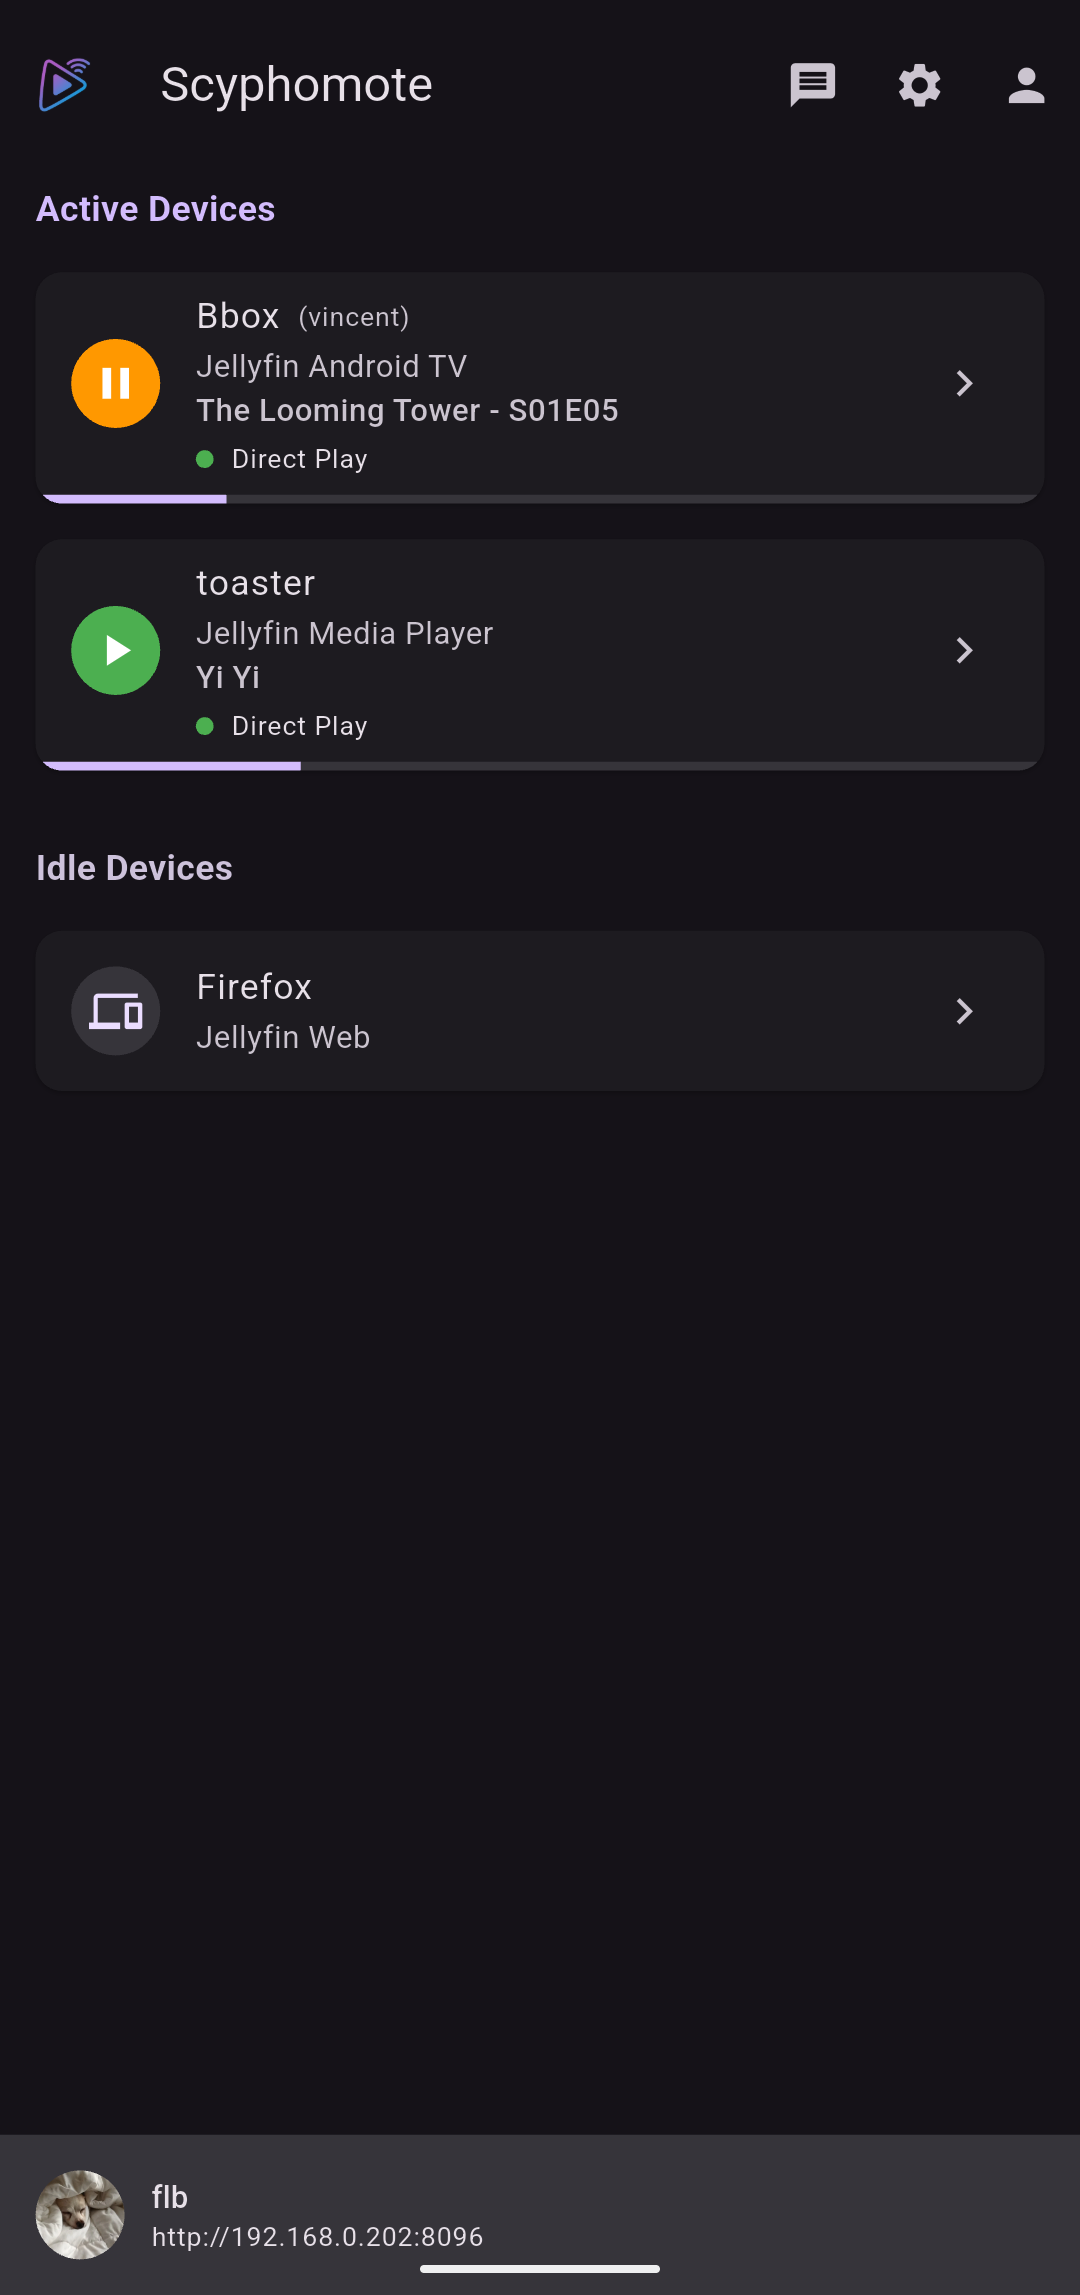
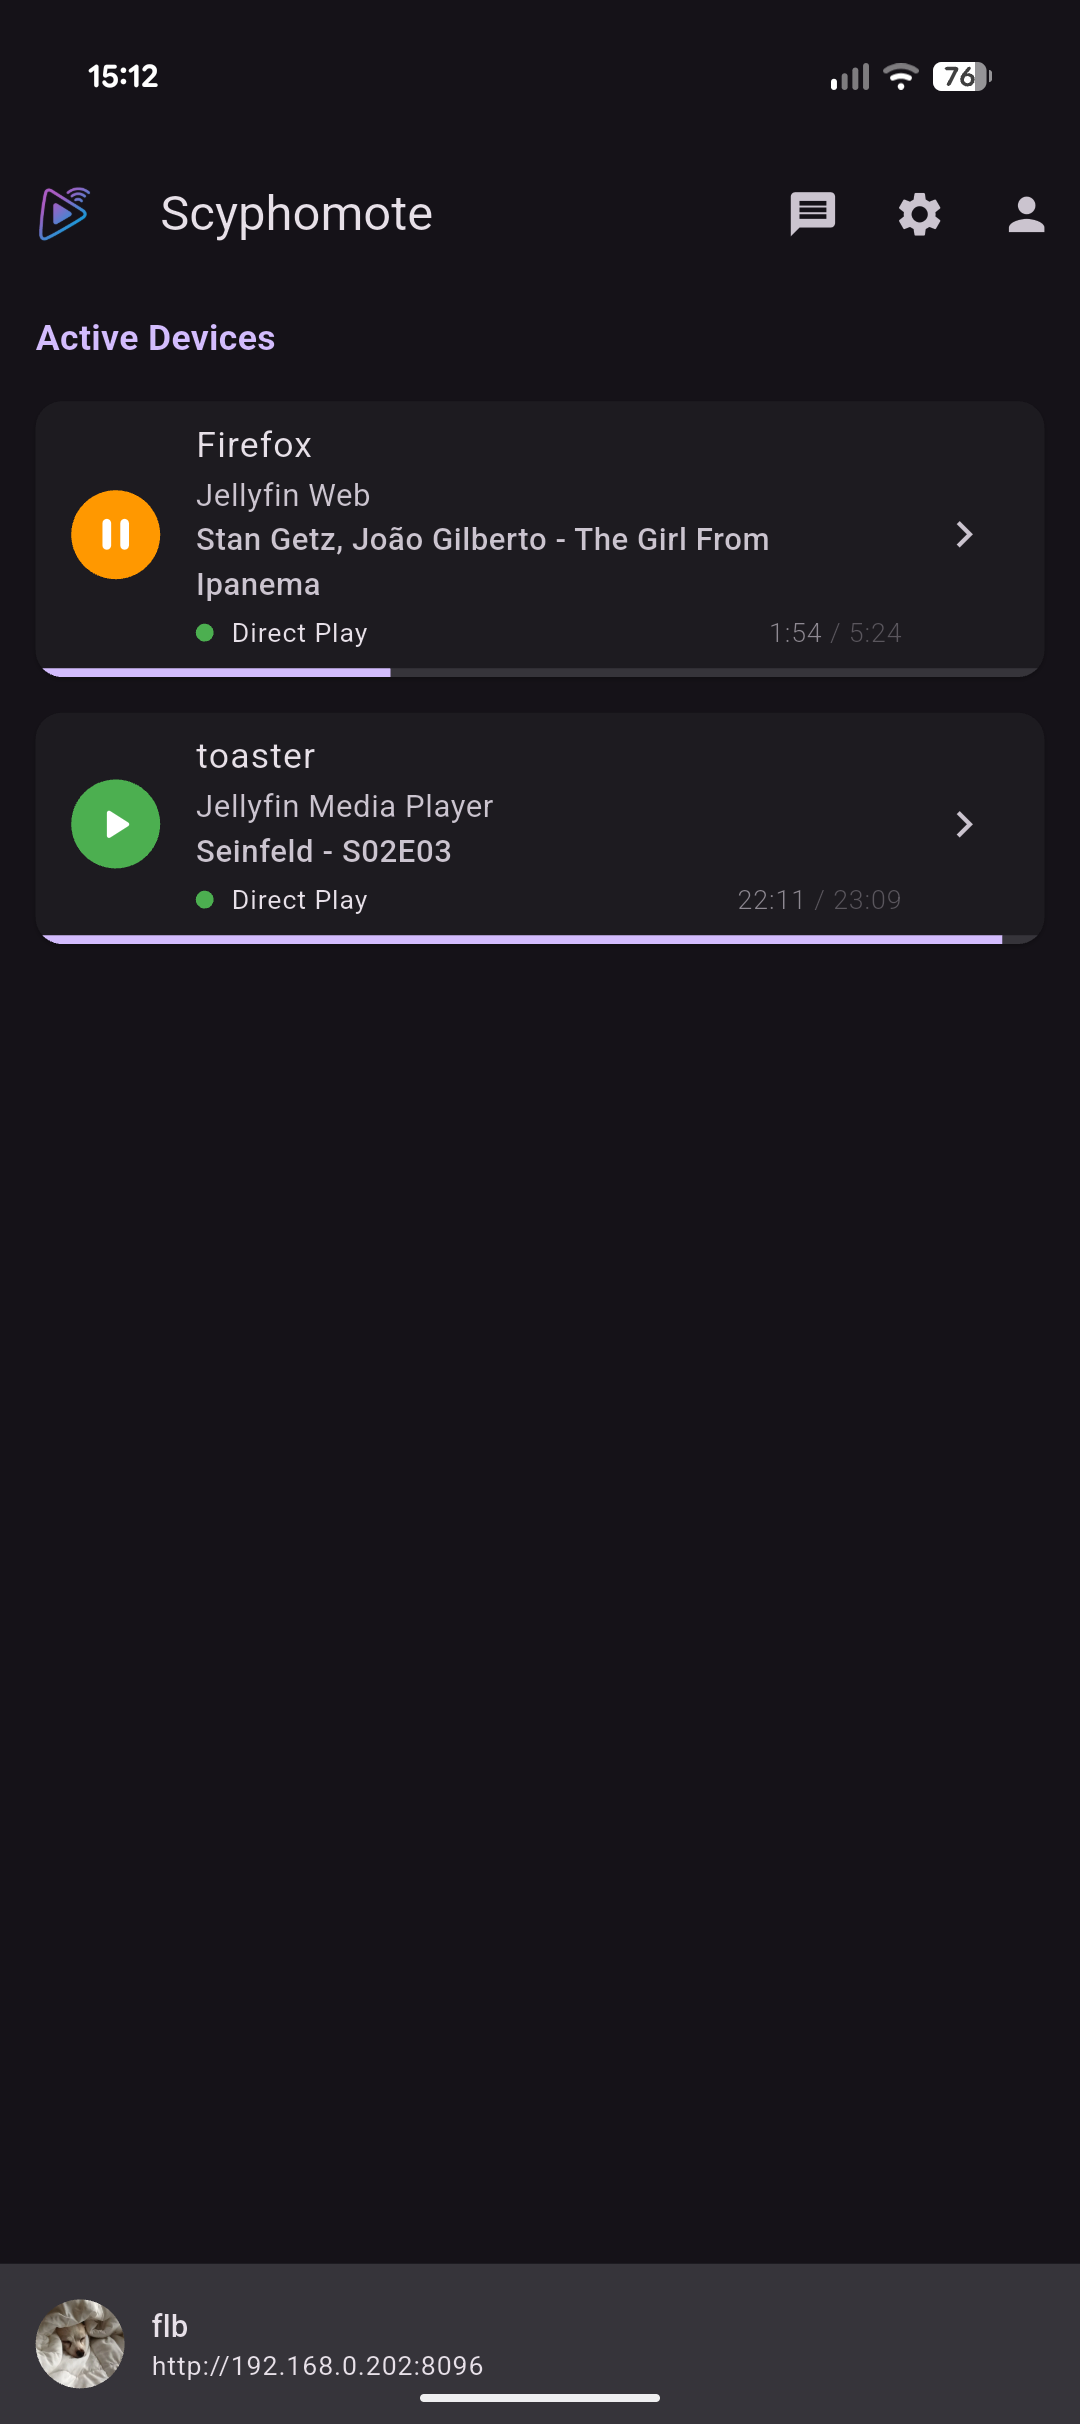
chore: update screenshots

diff --git a/README.md b/README.md
@@ -47,13 +47,15 @@ This will pull the latest image from GHCR and serve it at `http://localhost:6262
 
 ## Screenshots
 
-<div style="display: flex; overflow-x: auto; gap: 10px; padding-bottom: 10px;">
-  <img src="screenshots/player_dark.png" height="500" alt="Player Dark"/>
-  <img src="screenshots/player_light.png" height="500" alt="Player Light"/>
-  <img src="screenshots/sessions_dark.png" height="500" alt="Sessions"/>
-  <img src="screenshots/remote.png" height="500" alt="Remote"/>
-  <img src="screenshots/library.png" height="500" alt="Library"/>
-</div>
+<table>
+  <tr>
+    <td><img src="screenshots/movie_dark.png" height="500" alt="Player Dark"/></td>
+    <td><img src="screenshots/music_light.png" height="500" alt="Player Light"/></td>
+    <td><img src="screenshots/sessions_dark.png" height="500" alt="Sessions"/></td>
+    <td><img src="screenshots/remote_dark.png" height="500" alt="Remote"/></td>
+    <td><img src="screenshots/library_dark.png" height="500" alt="Library"/></td>
+  </tr>
+</table>
 
 ## Building
 
